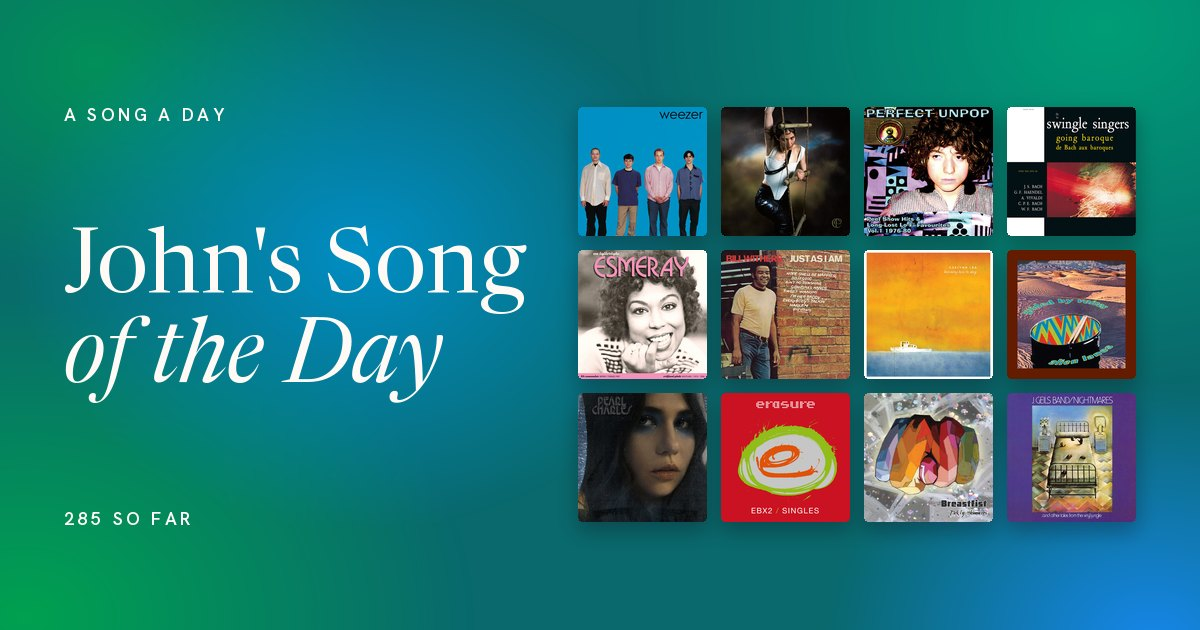
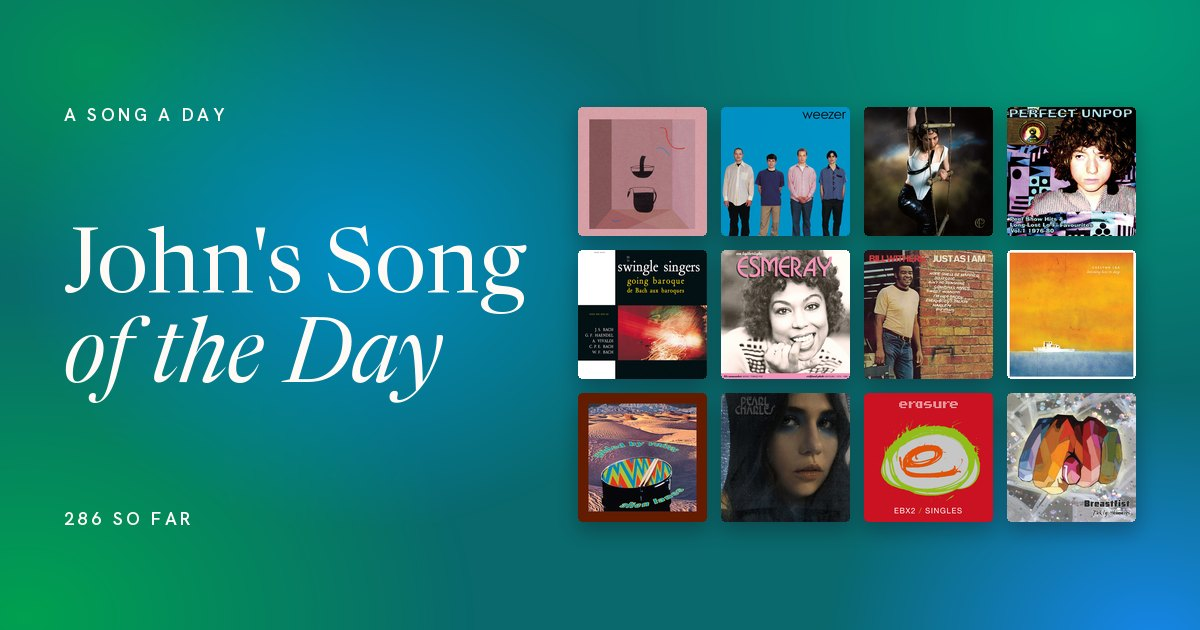
Song moods and genres: John's songs first

Changed region(s): [[0.4625, 0.1508, 0.9558, 0.8444], [0.0617, 0.8143, 0.0925, 0.8444]]

diff --git a/songs/today/index.html b/songs/today/index.html
@@ -3,24 +3,24 @@
 <head>
 <meta charset="utf-8">
 <meta name="viewport" content="width=device-width,initial-scale=1">
-<title>Buddy Holly · John's Song of the Day</title>
-<meta name="description" content="Weezer · John&#x27;s Song of the Day, Saturday 21 November 2026">
+<title>Für Hildegard von Bingen · John's Song of the Day</title>
+<meta name="description" content="Devendra Banhart · John&#x27;s Song of the Day, Sunday 22 November 2026">
 <link rel="canonical" href="https://cooperking.github.io/songs/today/">
 <meta property="og:type" content="music.song">
 <meta property="og:site_name" content="John's Song of the Day">
-<meta property="og:title" content="Buddy Holly">
-<meta property="og:description" content="Weezer · John&#x27;s Song of the Day, Saturday 21 November 2026">
+<meta property="og:title" content="Für Hildegard von Bingen">
+<meta property="og:description" content="Devendra Banhart · John&#x27;s Song of the Day, Sunday 22 November 2026">
 <meta property="og:url" content="https://cooperking.github.io/songs/today/">
-<meta property="og:image" content="https://cooperking.github.io/songs/21-11-2026/card.jpg">
-<meta property="og:image:secure_url" content="https://cooperking.github.io/songs/21-11-2026/card.jpg">
+<meta property="og:image" content="https://cooperking.github.io/songs/22-11-2026/card.jpg">
+<meta property="og:image:secure_url" content="https://cooperking.github.io/songs/22-11-2026/card.jpg">
 <meta property="og:image:type" content="image/jpeg">
 <meta property="og:image:width" content="1200">
 <meta property="og:image:height" content="630">
-<meta property="og:image:alt" content="Buddy Holly by Weezer">
-<meta name="twitter:image" content="https://cooperking.github.io/songs/21-11-2026/card.jpg">
+<meta property="og:image:alt" content="Für Hildegard von Bingen by Devendra Banhart">
+<meta name="twitter:image" content="https://cooperking.github.io/songs/22-11-2026/card.jpg">
 <meta name="twitter:card" content="summary_large_image">
-<meta name="twitter:title" content="Buddy Holly">
-<meta name="twitter:description" content="Weezer · John&#x27;s Song of the Day, Saturday 21 November 2026">
+<meta name="twitter:title" content="Für Hildegard von Bingen">
+<meta name="twitter:description" content="Devendra Banhart · John&#x27;s Song of the Day, Sunday 22 November 2026">
 <meta name="theme-color" content="#09696d">
 <link rel="icon" type="image/png" sizes="96x96" href="https://cooperking.github.io/songs/favicon-96.png?v=2">
 <link rel="icon" type="image/png" sizes="192x192" href="https://cooperking.github.io/songs/icon-192.png?v=2">
@@ -28,6 +28,6 @@
 <script>if (!/bot|crawl|spider|preview|facebookexternalhit|facebot|whatsapp|telegram|slack|discord|linkedin|pinterest|embedly|iframely|skype|viber|signal|vkshare|redditbot|applebot|google|bing/i.test(navigator.userAgent)) location.replace("../" + location.search + "#today");</script>
 </head>
 <body style="font-family: Georgia, serif; padding: 24px;">
-<p><a href="../#today">Buddy Holly by Weezer</a>, John's Song of the Day for Saturday 21 November 2026.</p>
+<p><a href="../#today">Für Hildegard von Bingen by Devendra Banhart</a>, John's Song of the Day for Sunday 22 November 2026.</p>
 </body>
 </html>

diff --git a/songs/22-11-2026/index.html b/songs/22-11-2026/index.html
@@ -1,0 +1,33 @@
+<!doctype html>
+<html lang="en">
+<head>
+<meta charset="utf-8">
+<meta name="viewport" content="width=device-width,initial-scale=1">
+<title>Für Hildegard von Bingen · John's Song of the Day</title>
+<meta name="description" content="Devendra Banhart · John&#x27;s Song of the Day, Sunday 22 November 2026">
+<link rel="canonical" href="https://cooperking.github.io/songs/22-11-2026/">
+<meta property="og:type" content="music.song">
+<meta property="og:site_name" content="John's Song of the Day">
+<meta property="og:title" content="Für Hildegard von Bingen">
+<meta property="og:description" content="Devendra Banhart · John&#x27;s Song of the Day, Sunday 22 November 2026">
+<meta property="og:url" content="https://cooperking.github.io/songs/22-11-2026/">
+<meta property="og:image" content="https://cooperking.github.io/songs/22-11-2026/card.jpg">
+<meta property="og:image:secure_url" content="https://cooperking.github.io/songs/22-11-2026/card.jpg">
+<meta property="og:image:type" content="image/jpeg">
+<meta property="og:image:width" content="1200">
+<meta property="og:image:height" content="630">
+<meta property="og:image:alt" content="Für Hildegard von Bingen by Devendra Banhart">
+<meta name="twitter:image" content="https://cooperking.github.io/songs/22-11-2026/card.jpg">
+<meta name="twitter:card" content="summary_large_image">
+<meta name="twitter:title" content="Für Hildegard von Bingen">
+<meta name="twitter:description" content="Devendra Banhart · John&#x27;s Song of the Day, Sunday 22 November 2026">
+<meta name="theme-color" content="#09696d">
+<link rel="icon" type="image/png" sizes="96x96" href="https://cooperking.github.io/songs/favicon-96.png?v=2">
+<link rel="icon" type="image/png" sizes="192x192" href="https://cooperking.github.io/songs/icon-192.png?v=2">
+<link rel="apple-touch-icon" sizes="180x180" href="https://cooperking.github.io/songs/apple-touch-icon.png?v=2">
+<script>if (!/bot|crawl|spider|preview|facebookexternalhit|facebot|whatsapp|telegram|slack|discord|linkedin|pinterest|embedly|iframely|skype|viber|signal|vkshare|redditbot|applebot|google|bing/i.test(navigator.userAgent)) location.replace("../" + location.search + "#22-11-2026");</script>
+</head>
+<body style="font-family: Georgia, serif; padding: 24px;">
+<p><a href="../#22-11-2026">Für Hildegard von Bingen by Devendra Banhart</a>, John's Song of the Day for Sunday 22 November 2026.</p>
+</body>
+</html>

diff --git a/songs/11-2026/index.html b/songs/11-2026/index.html
@@ -4,12 +4,12 @@
 <meta charset="utf-8">
 <meta name="viewport" content="width=device-width,initial-scale=1">
 <title>November 2026 · John's Song of the Day</title>
-<meta name="description" content="21 songs for each day">
+<meta name="description" content="22 songs for each day">
 <link rel="canonical" href="https://cooperking.github.io/songs/11-2026/">
 <meta property="og:type" content="website">
 <meta property="og:site_name" content="John's Song of the Day">
 <meta property="og:title" content="November 2026">
-<meta property="og:description" content="21 songs for each day">
+<meta property="og:description" content="22 songs for each day">
 <meta property="og:url" content="https://cooperking.github.io/songs/11-2026/">
 <meta property="og:image" content="https://cooperking.github.io/songs/11-2026/card.jpg">
 <meta property="og:image:secure_url" content="https://cooperking.github.io/songs/11-2026/card.jpg">
@@ -26,6 +26,6 @@
 <script>if (!/bot|crawl|spider|preview|facebookexternalhit|facebot|whatsapp|telegram|slack|discord|linkedin|pinterest|embedly|iframely|skype|viber|signal|vkshare|redditbot|applebot|google|bing/i.test(navigator.userAgent)) location.replace("../" + location.search + "#11-2026");</script>
 </head>
 <body style="font-family: Georgia, serif; padding: 24px;">
-<p><a href="../#11-2026">November 2026</a>: 21 songs for each day</p>
+<p><a href="../#11-2026">November 2026</a>: 22 songs for each day</p>
 </body>
 </html>

diff --git a/songs/index.html b/songs/index.html
@@ -4,11 +4,11 @@
 <meta charset="utf-8">
 <meta name="sotd-build" content="bda6aaf01d7f">
 <meta name="viewport" content="width=device-width, initial-scale=1, viewport-fit=cover">
-<meta name="description" content="A song a day, 285 so far">
+<meta name="description" content="A song a day, 286 so far">
 <meta name="theme-color" content="#ec135b">
 <meta property="og:type" content="website">
 <meta property="og:title" content="John’s Song of the Day">
-<meta property="og:description" content="A song a day, 285 so far">
+<meta property="og:description" content="A song a day, 286 so far">
 <meta property="og:url" content="https://cooperking.github.io/songs/">
 <meta property="og:image" content="https://cooperking.github.io/songs/card.jpg">
 <meta property="og:image:type" content="image/jpeg">
